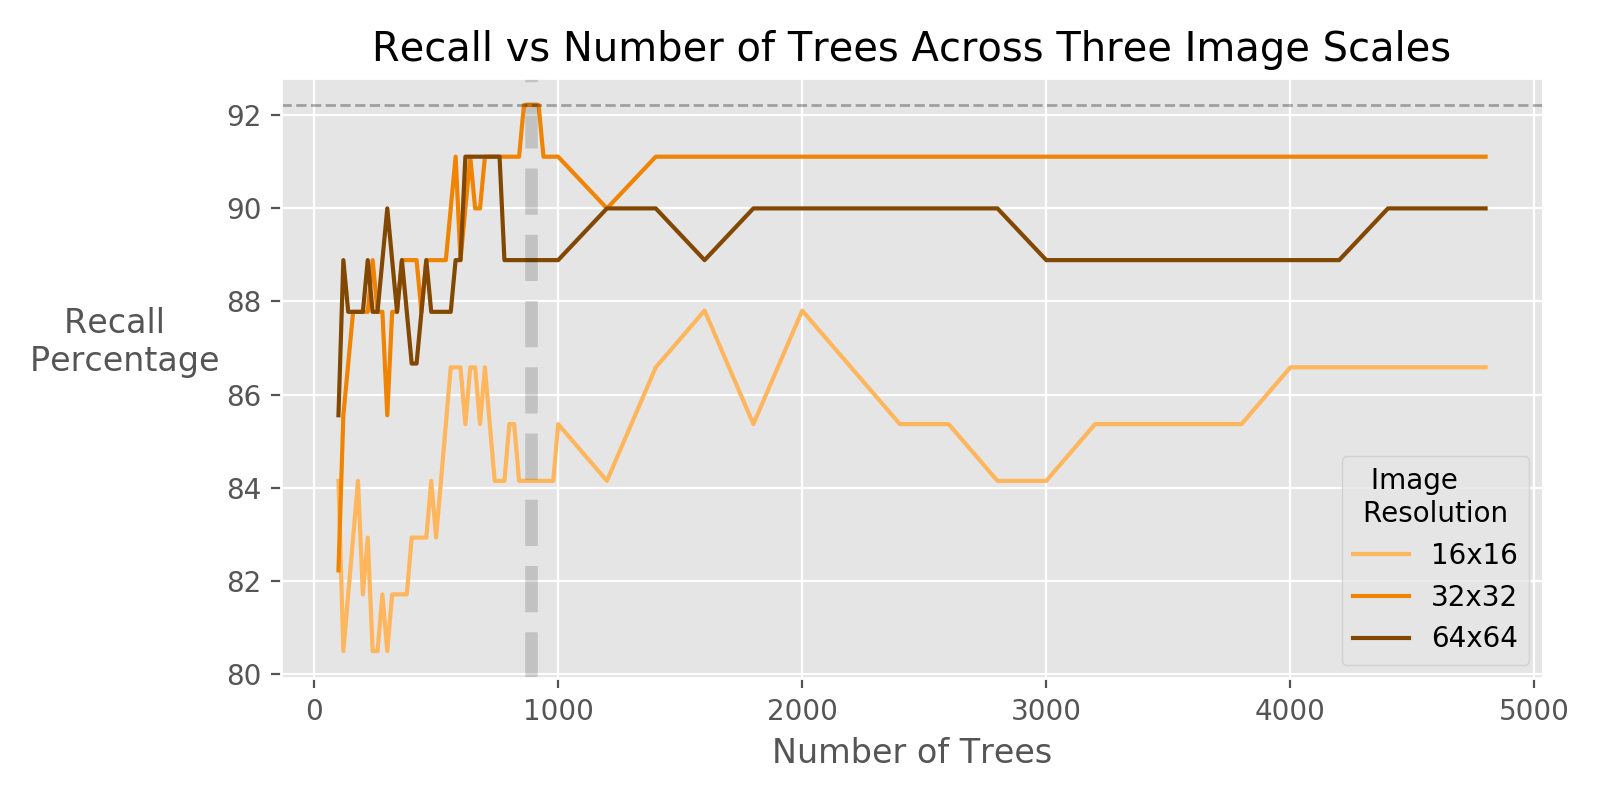
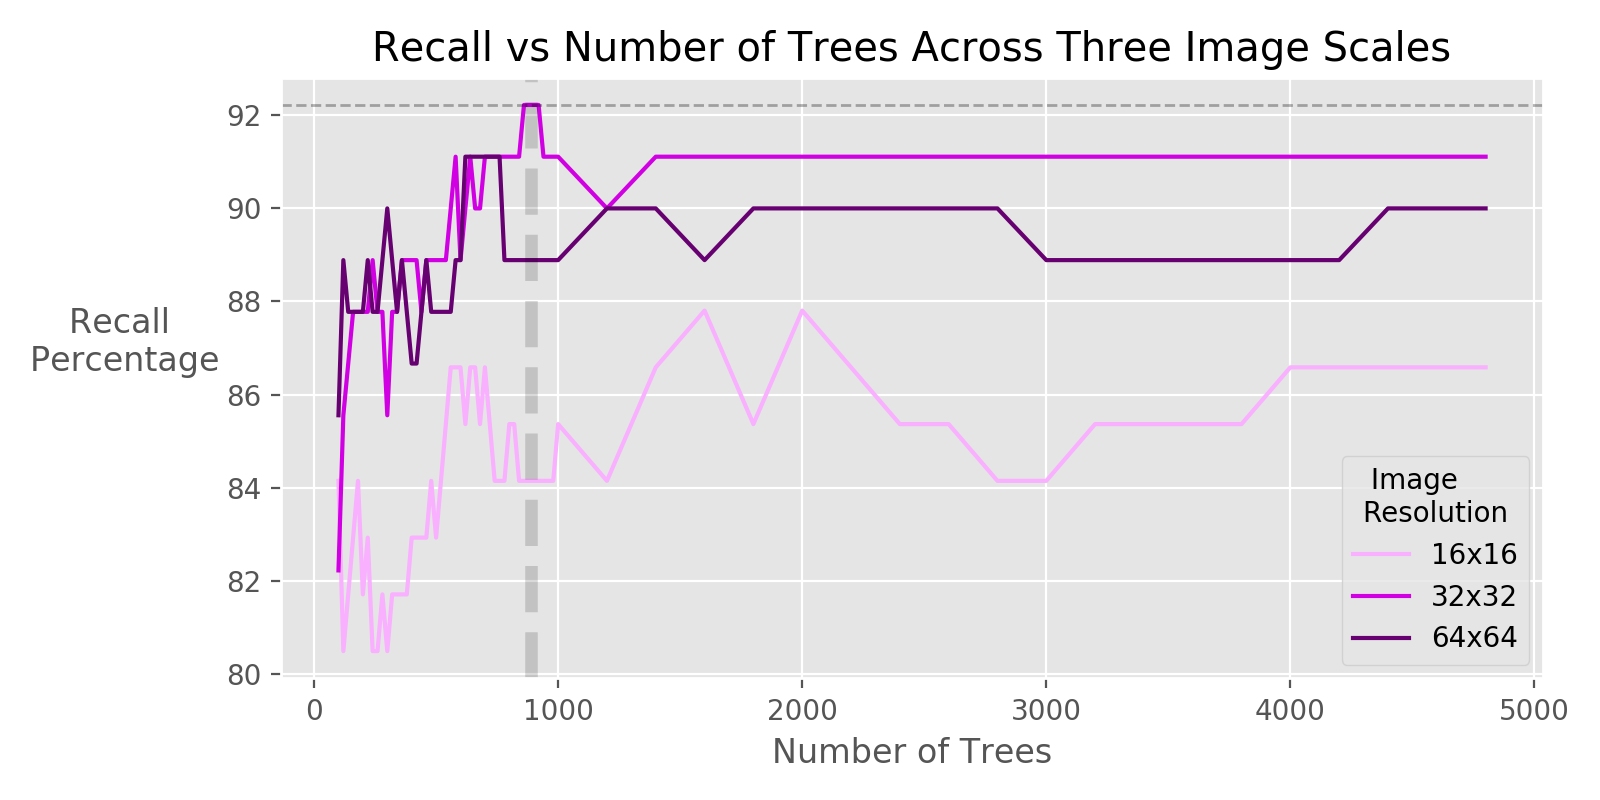
last commit thrs

diff --git a/main/src/main.py b/main/src/main.py
@@ -513,19 +513,19 @@ def plot_recalls(df):
     ax.plot(df.num_trees, 
             (100*df.recall_gray_16), 
             label = '16x16',
-            color = '#ffb65c'
+            color = '#fabaff'
             )
 
     ax.plot(df.num_trees, 
             (100*df.recall_gray_32), 
             label = '32x32',
-            color = '#f08400'
+            color = '#bb00c9'
             )
 
     ax.plot(df.num_trees, 
             (100*df.recall_gray_64), 
             label = '64x64',
-            color = '#824800'
+            color = '#670070'
             )
 
     hline_height = 100 * df[['recall_gray_16', 

diff --git a/README.md b/README.md
@@ -9,17 +9,10 @@
 <hr style="border:6px solid gray; background-color:gray"> </hr> 
 <br>
 
-<p align="left" style="font-size:1.9em;">
-Dude, What's That Car?
-</p>
-<p align="left" style="font-size:1.2em;">
-Automobile Image Classifier
-</p>
-<p align="left" style="font-size:0.7em;">
-<em>by Marc Russell</em>
-<br>
-<br>
-<em>Capstone II Project for Galvanize Data Science Immersive, Week 8</em>
+# Dude, What's That Car?
+## Automobile Image Classifier
+##### <em>by Marc Russell</em>
+##### <em>Capstone II Project for Galvanize Data Science Immersive, Week 8</em>
 </p>
 <hr>
 <br>
@@ -124,13 +117,11 @@ Containing 9,170 classes consisting of 291,752 images, covering models manufactu
 
 Images were taken by different users, on different imaging devices, and cover multiple perspectives, ensuring a wide range of variations to account for various scenarios that could be encountered in a real-life scenario. The cars are not well aligned, and some images contain irrelevant backgrounds.
 
-<p align="center" style="font-size:1.5em;">
-Example Images
-</p>
-<figure class="image" align="center">
+<p align="center">
   <img src="main/img/f150-full.jpg" width = 450 >
-  <figcaption>Above: Originial Image (~600x500)
-</figure>
+  <br>
+  Above: Originial Image (~600x500)
+</p>
 <p align="center">
   <img src="main/img/f150-g64.jpg" width = 150 >
   <img src="main/img/f150-g32.jpg" width = 150 >
@@ -143,17 +134,19 @@ Left: 64x64 &nbsp; &nbsp;  &nbsp; | &nbsp;  &nbsp;  &nbsp; Middle: 32x32 &nbsp; 
   <img src="main/img/civic-g64.jpg" width = 150 >
   <img src="main/img/civic-g32.jpg" width = 150 >
   <img src="main/img/civic-g16.jpg" width = 150 >
+  <br>
+  Below: Originial Image (~600x500)
 </p>
-<figure class="image" align="center">
+
+<p align="center">
   <img src="main/img/civic-full.jpg" width = 450 >
-  <figcaption>Above: Originial Image (~600x500)</figcaption>
-</figure>
+</p>
 
 [Back to Top](#Table-of-Contents)
 
 # Image Pipeline
 ## Transformations
-Images were stored in folders according to the make, model, (sometimes sub-model or body-type),year. These label-named folders (with images inside) comprised the dataset. 
+Images were stored in folders according to the make, model, (sometimes sub-model or body-type), year. These label-named folders (with images inside) comprised the dataset. 
 
 I read in a subset of the image files being sure to choose two classes that were visually different and that had many (hundreds) of images. The subset of images were scaled down (distorting some) and converted to grayscale.
 
@@ -182,20 +175,16 @@ Out of boot (bag) score was very similar to, or better than, the test accuracy s
   <img src="main/img/rf-num-tree-10k-rec.png" width = 550 >
 </p>
 
-Next I'm excited to increase number of classes. With 14 classes, accuracy wa
+Next I'm looking forward to increase number of classes. With 14 classes, accuracy fell to around ~50%
 
 [Back to Top](#Table-of-Contents)
 
 
 # Conclusion
 
-I initially wanted to focus my study on how weather conditions effect accident rates. It turned out that adjusting my data to account for the fact that is not independent and identically distributed (IID) proved difficult. To remedy this, I would source a dataset of locational-hourly-weather and merged with the accident data set. Instead I decided to shift focus to exploring how accident counts change with location.
+The dataset contains features that are going to allow me to correctly catagorize with an accuracy significantly better than guessing.
 
-I found the relationships of state-to-state accident rates very interesting. Despite the data not being IID I was able to merge a population dataset with the accident counts to achieve a rate - the number of accidents per person per year in each state. This subtle change allows us to compare states between each other despite variable populations. It turns out that South Carolina has the highest accident rate while North and South Dakota have the lowest accident rates.
-
-Lastly I looked at the relationship between time and accident counts. It quickly became apparent that the accident counts over time were also not IID. I decided to explore the relationship anyway, being careful not to draw strict conclusions. Over the course of the day it was expected to see the double rush hour peak. On the other hand, I found it surprising that the seasonal rise in accident counts happened during fall and not winter. 
-
-I hope to return to this dataset soon and explore the remaining corners. It will also be a fun challenge to merge the aforementioned dataset which will allow me to draw conclusions where I was not able to before.
+I'm very excited to continue working on this project.
 
 [Back to Top](#Table-of-Contents)
 
